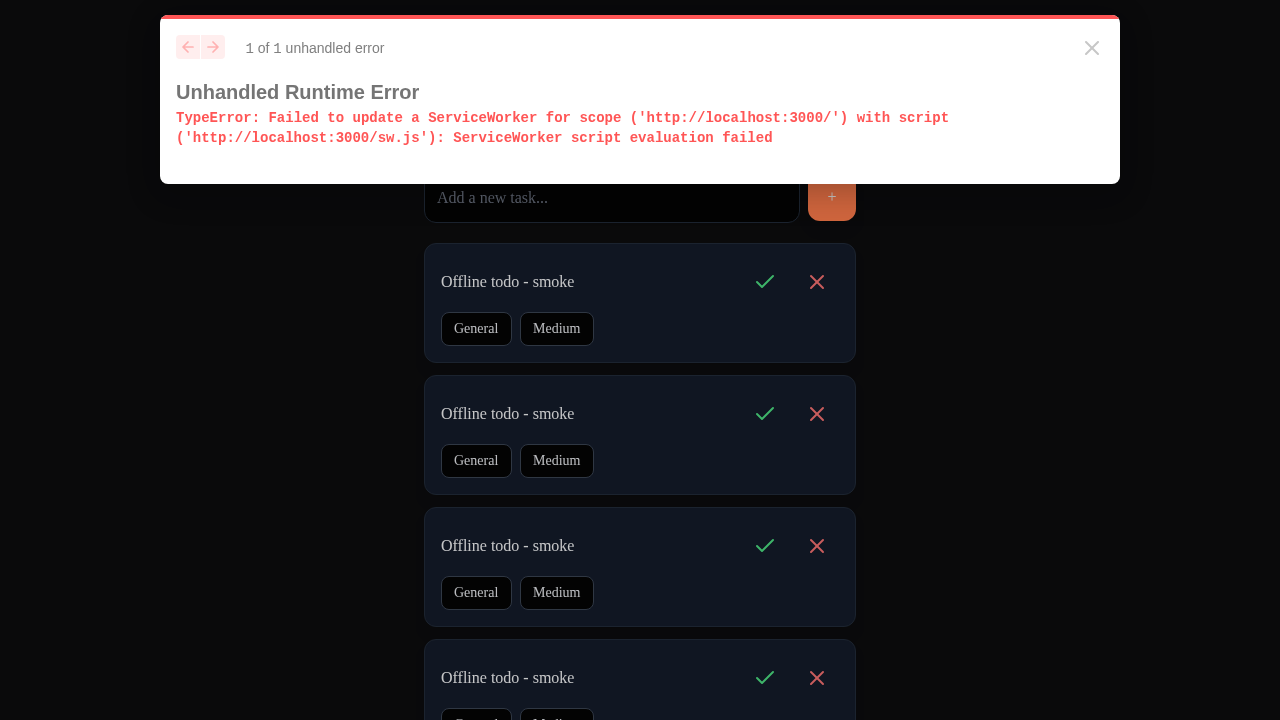
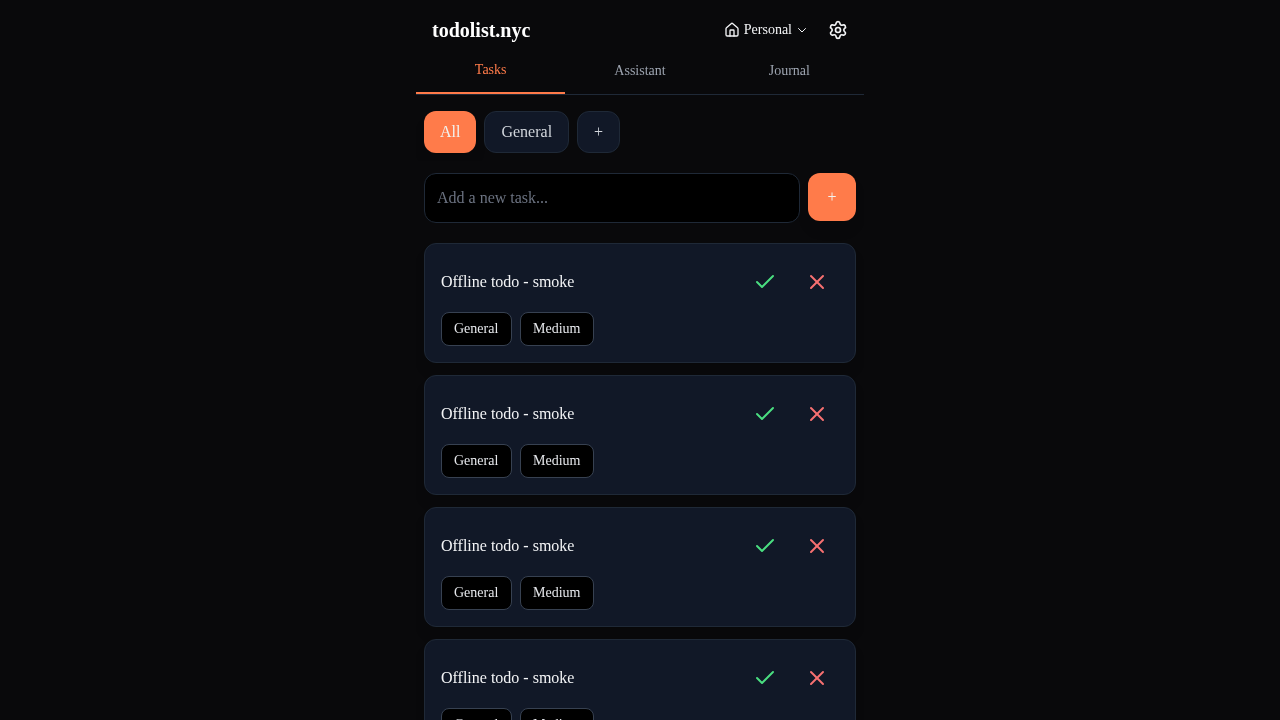
Fix service worker install and update screenshots

diff --git a/frontend/public/sw.js b/frontend/public/sw.js
@@ -799,6 +799,16 @@ self.addEventListener('install', (event) => {
         resolve(null);
       }, ms))
     ]);
+  const isLocalhost = self.location?.hostname === 'localhost' || self.location?.hostname === '127.0.0.1';
+  if (isLocalhost) {
+    // Avoid dev server install hangs; run cache/DB init best-effort without blocking install.
+    cacheStaticFiles().catch((err) => console.log('⚠ cacheStaticFiles failed:', err));
+    caches.open(API_CACHE).catch((err) => console.log('⚠ caches.open failed:', err));
+    openGlobalDB().catch((err) => console.log('⚠ openGlobalDB failed:', err));
+    event.waitUntil(Promise.resolve());
+    self.skipWaiting();
+    return;
+  }
   event.waitUntil(
     Promise.all([
       // Pre-cache static files with individual error handling

diff --git a/frontend/pages/_app.tsx b/frontend/pages/_app.tsx
@@ -10,9 +10,13 @@ function MyApp({ Component, pageProps }: AppProps) {
     if ('serviceWorker' in navigator) {
       console.log('📱 Registering service worker...');
       navigator.serviceWorker
-        .register('/sw.js')
+        .register('/sw.js', { updateViaCache: 'none' })
         .then((registration) => {
           console.log('✅ Service Worker registered successfully:', registration);
+          // Force an update check in dev to avoid stale SW script caching.
+          registration.update().catch((err) => {
+            console.log('⚠ Service Worker update check failed:', err);
+          });
         })
         .catch((registrationError) => {
           console.log('❌ Service Worker registration failed: ', registrationError);
